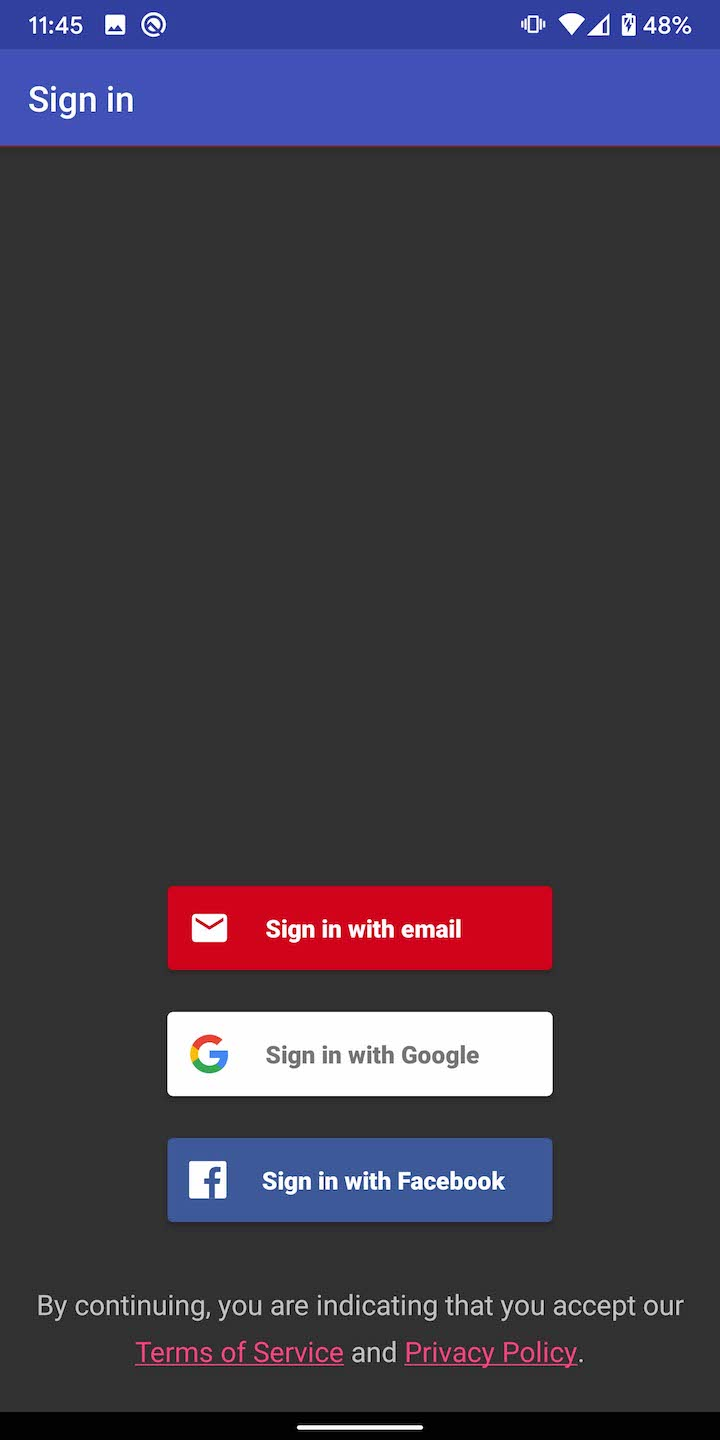
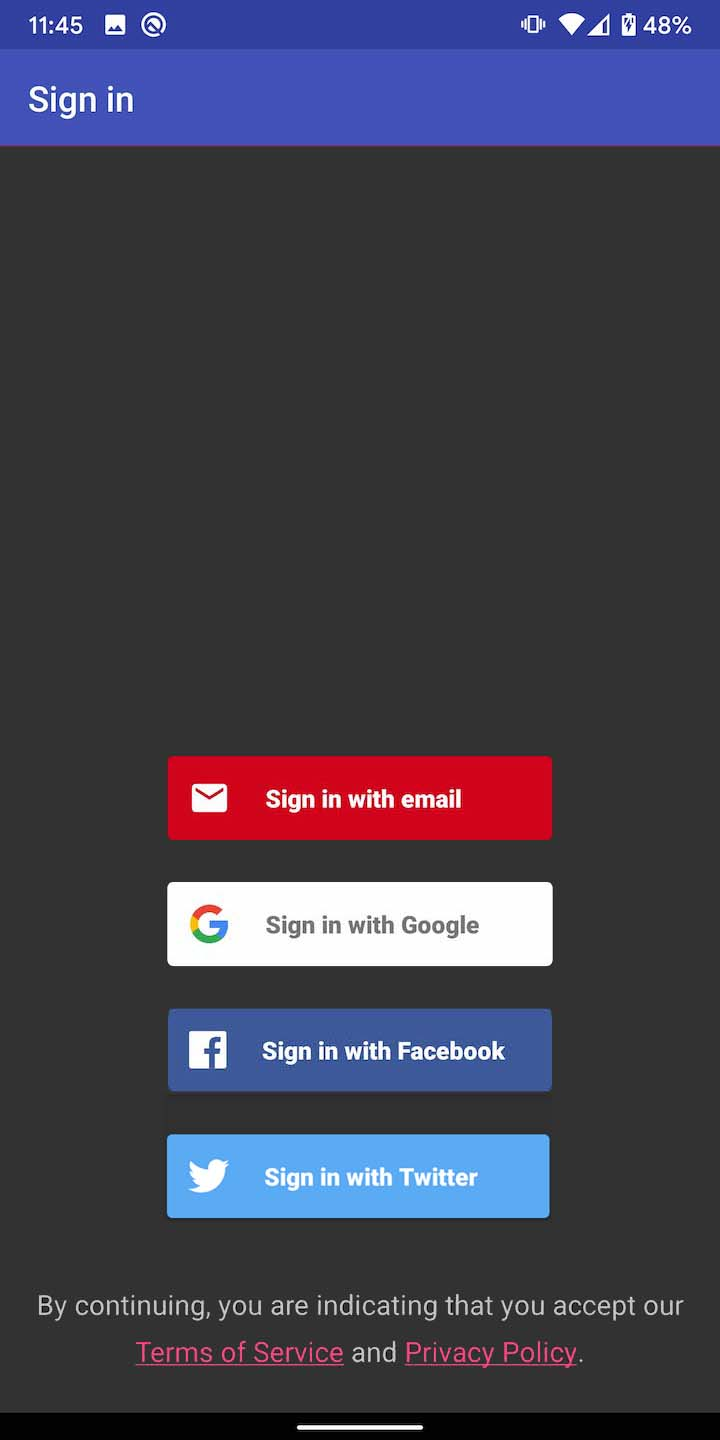
Add Twitter support and updated README and example to showcase the same.

Changed region(s): [[0.2139, 0.5, 0.7944, 0.875], [0.5806, 0.9062, 0.6111, 0.9375]]

diff --git a/ios/Classes/SwiftFirebaseAuthUiPlugin.swift b/ios/Classes/SwiftFirebaseAuthUiPlugin.swift
@@ -116,10 +116,31 @@ public class SwiftFirebaseAuthUiPlugin: NSObject, FlutterPlugin, FUIAuthDelegate
                         authProviders.append(FUIGoogleAuth())
                     } else if (provider == "facebook") {
                         authProviders.append(FUIFacebookAuth())
+                    } else if (provider == "twitter") {
+                        authProviders.append(getTwitterAuthProvider())
                     }
                 }
             }
 
             return authProviders
         }
+
+        private func getTwitterAuthProvider() -> FUIOAuth {
[1 lines of base64/hex data omitted]
+
+            let dataDecoded : Data = Data(base64Encoded: twitterBase64, options: .ignoreUnknownCharacters)!
+            let twitterIcon = UIImage(data: dataDecoded)
+            let buttonColor =
+                UIColor(red: 71.0/255.0, green: 154.0/255.0, blue: 234.0/255.0, alpha: 1.0)
+
+            return FUIOAuth(authUI: authUI!,
+                                    providerID: "twitter.com",
+                                    buttonLabelText: "Login with Twitter",
+                                    shortName: "Twitter",
+                                    buttonColor: buttonColor,
+                                    iconImage: twitterIcon ?? UIImage(),
+                                    scopes: ["user.read"],
+                                    customParameters: ["prompt" : "consent"],
+                                    loginHintKey: nil)
+         }
 }

diff --git a/example/lib/main.dart b/example/lib/main.dart
@@ -84,12 +84,13 @@ class _MyAppState extends State<MyApp> {
       // User is null, initiate auth
       FirebaseAuthUi.instance().launchAuth([
         AuthProvider.email(),
-        // Google and facebook providers are commented because this example
+        // Google ,facebook and twitter providers are commented because this example
         // isn't configured to enable them. Please follow the README and uncomment
         // them if you want to integrate them in your project.
 
         // AuthProvider.google(),
         // AuthProvider.facebook(),
+        // AuthProvider.twitter(),
       ]).then((firebaseUser) {
         setState(() {
           _error = "";

diff --git a/android/src/main/kotlin/com/firebase_auth_ui/FirebaseAuthUiPlugin.kt b/android/src/main/kotlin/com/firebase_auth_ui/FirebaseAuthUiPlugin.kt
@@ -116,6 +116,8 @@ class FirebaseAuthUiPlugin(private val activity: Activity) : MethodCallHandler, 
                         .build())
                 "facebook" -> providers.add(AuthUI.IdpConfig.FacebookBuilder()
                         .build())
+                "twitter" -> providers.add(AuthUI.IdpConfig.TwitterBuilder()
+                        .build())
             }
         }
         return providers

diff --git a/lib/src/providers/twitter_provider.dart b/lib/src/providers/twitter_provider.dart
@@ -1,0 +1,12 @@
+import '../../providers.dart';
+
+class TwitterProvider extends AuthProvider {
+  TwitterProvider() : super(providerId: "twitter");
+
+  @override
+  Map<String, dynamic> getMap() {
+    return {
+      'providerId': providerId,
+    };
+  }
+}

diff --git a/lib/providers.dart b/lib/providers.dart
@@ -2,3 +2,4 @@ export 'src/providers/auth_provider.dart';
 export 'src/providers/email_provider.dart';
 export 'src/providers/facebook_provider.dart';
 export 'src/providers/google_provider.dart';
+export 'src/providers/twitter_provider.dart';

diff --git a/lib/src/providers/auth_provider.dart b/lib/src/providers/auth_provider.dart
@@ -18,4 +18,8 @@ abstract class AuthProvider {
   factory AuthProvider.facebook() {
     return FacebookProvider();
   }
+
+  factory AuthProvider.twitter() {
+    return TwitterProvider();
+  }
 }

diff --git a/README.md b/README.md
@@ -22,6 +22,7 @@ FirebaseAuthUi.instance()
             AuthProvider.email(), // Login/Sign up with Email and password
             AuthProvider.google(), // Login with Google
             AuthProvider.facebook(), // Login with Facebook
+	        AuthProvider.twitter(), // Login with Twitter
           ],
           tosUrl: "https://my-terms-url", // Optional
           privacyPolicyUrl: "https://my-privacy-policy", // Optional,
@@ -55,7 +56,7 @@ If you want to have full `FirebaseUser` object then please add [firebase_auth](h
 
 ## Configuration
 Create a project on Firebase console and add Android and iOS platform in **Settings > Your apps**
-- Open the **Authentication** section and then navigate to **Sign in method**. Please enable Email/Password, Google and Facebook method depending on your need and click save.
+- Open the **Authentication** section and then navigate to **Sign in method**. Please enable Email/Password, Google, Facebook and Twitter method depending on your need and click save.
 - Navigate back to **Settings > Your apps**
 - Download "google-services.json" for Android
 - Download "GoogleService-Info.plist"for iOS
@@ -126,6 +127,16 @@ below **[REVERSE_CLIENT_ID]**
 	<key>FacebookDisplayName</key>
 	<string>[YOUR_FACEBOOOK_APP_NAME]</string>
 ```
+### Twitter
+#### Android
+Add following lines in **strings.xml** [flutter_project]/android/app/src/main/res/values
+```
+<string name="twitter_consumer_key" translatable="false">[YOUR_CONSUMER_KEY]</string>
+<string name="twitter_consumer_secret" translatable="false">fb[YOUR_CONSUMER_SECRET]</string>
+```
+#### iOS
+If you have already configured Google login for iOS following above steps, then you don't need to do anything else. If not, please follow the exact same step.
+
 ## Customization
 #### General
 - The order of login buttons depends on the sequence of `AuthProviders` you passed in `launchAuth()`. For example if you have Email, Google and Facebook auth configured and would like the Facebook to appear first, you can simply pass the `AuthProvider.facebook()` as first element in the providers list.
